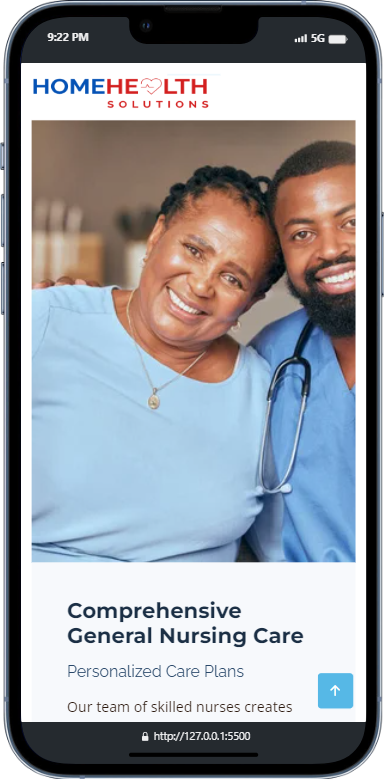
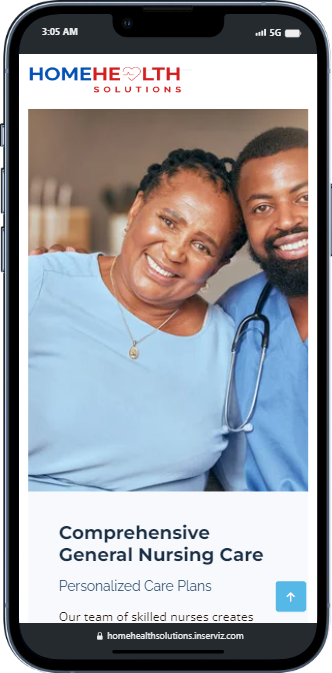
key services

diff --git a/index.html b/index.html
@@ -392,7 +392,7 @@
         <div class="container" data-aos="fade-up">
           <div class="row">
             <div class="col-lg-7" data-aos="fade-up" data-aos-delay="100">
-              <h3>Powerful Features for <br />Your Business</h3>
+              <h3>Our key services</h3>
 
               <div class="row gy-4">
                 <div class="col-md-6">
